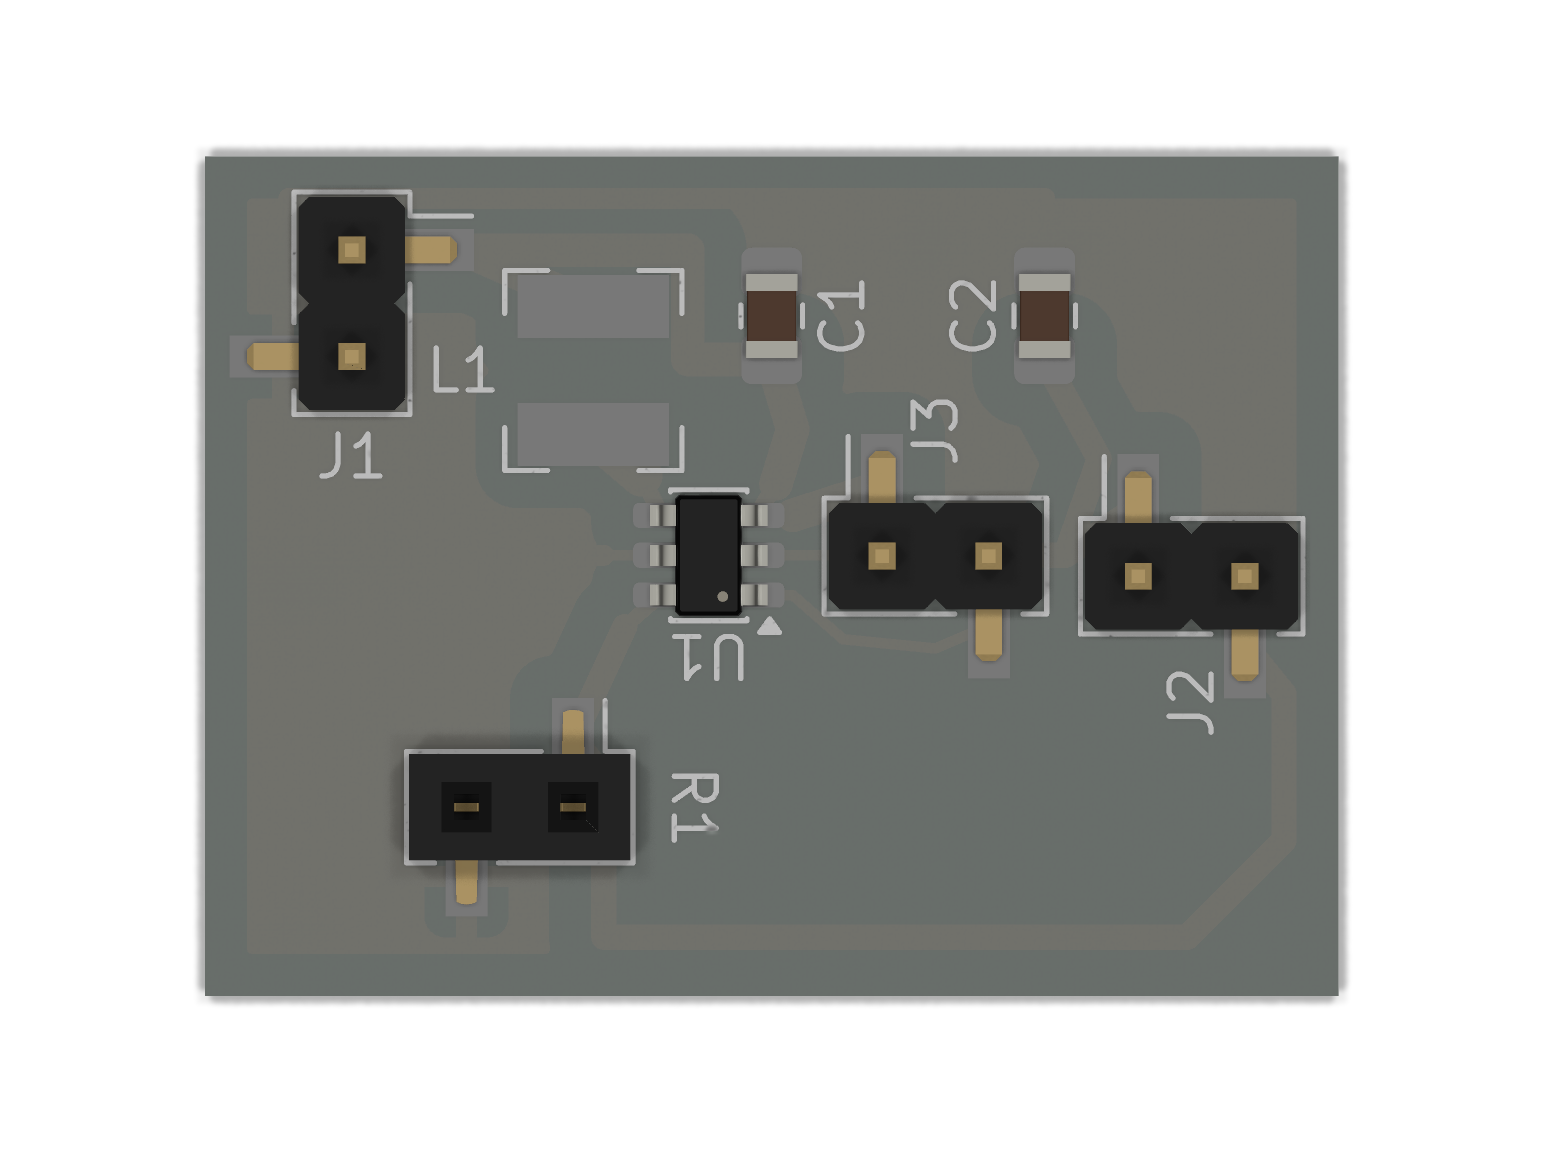
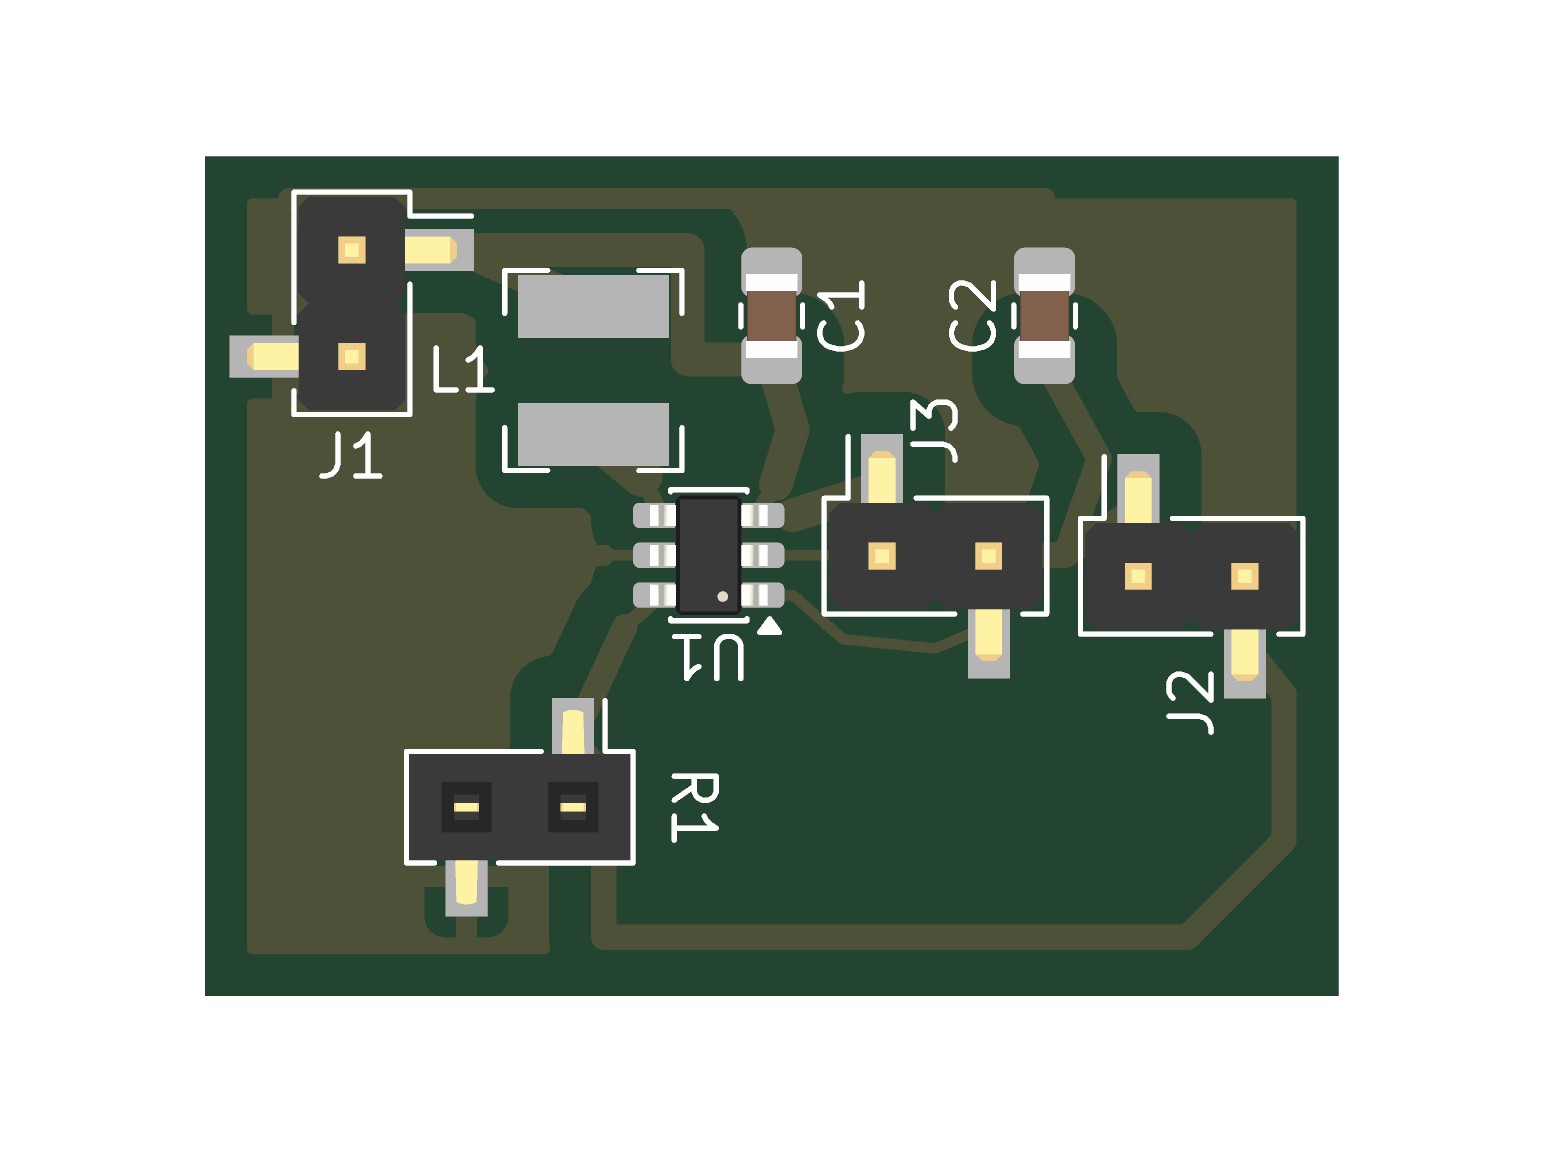
fix: clean up pcb preview rendering

diff --git a/.agents/skills/pcb-repository-governance/SKILL.md b/.agents/skills/pcb-repository-governance/SKILL.md
@@ -132,7 +132,9 @@ Model Git publication as a state transition, not as a single `push` command:
 4. Preserve the source branch as a recovery point. Switch to the integration branch and fast-forward it to the fetched destination before applying the source with `merge --squash`.
 5. Review the resulting staged name-status, whitespace check, statistics, complete diff, and relevant validation evidence as one publication batch. The earlier feature-branch review is useful evidence but does not replace checking the combined squash result.
 6. Create one conventional commit on the integration branch and use a normal fast-forward push. Never substitute a force push for resolving unexpected divergence.
-7. Verify publication by fetching or reading the remote-tracking ref and comparing its commit ID with the intended local integration commit. Report the concrete commit, remote URL, branch, and whether any recovery branch remains.
+7. Verify publication by fetching or reading the remote-tracking ref and comparing its commit ID with the intended local integration commit.
+8. After verified publication to the integration branch, delete the local source branch when it has no unpublished work beyond the published batch and is not attached to a worktree. This cleanup is the default even after a squash merge; retain the branch only when the user explicitly requests it or it still contains unique unpublished work. Never delete another task's branch merely because it is already merged.
+9. Report the concrete commit, remote URL, destination branch, and completed source-branch cleanup or the specific reason a branch remains.
 
 An explicit user request to `push`, publish, or update the remote authorizes a normal push of the audited current repository state to its configured upstream remote and named or tracked branch. Inspect and report the concrete URL and destination, but do not demand separate proof of remote-account ownership or repeat the confirmation merely because the remote uses GitHub, SSH, or another external host. Ask again only when publication intent was not explicit, the configured destination is missing or genuinely ambiguous, the requested branch differs from the tracked destination, or the operation would require a force push or history rewrite. Stop before pushing if secrets, credentials, private keys, personal absolute paths, unrelated files, stale generated artifacts, unlicensed private material, or unreviewed history enter the batch.
 

diff --git a/.agents/skills/kicad-pcb-layout/SKILL.md b/.agents/skills/kicad-pcb-layout/SKILL.md
@@ -44,7 +44,7 @@ After every change, refill the zones and inspect the actual filled geometry at r
 - Before full rerouting, close the editor, remove old routing, prove zero stale segments/vias/zones as applicable, and generate fresh router input.
 - After routing, count layers, vias, jumpers, and unrouted items. Refill zones and run DRC.
 - Inspect 2D, 3D, silkscreen, solder mask, copper-to-edge clearance, connector accessibility, and realistic assembly scale.
-- Generate committed 3D PCB previews with the repository profile's `visual_assets` settings. The default is an orthogonal, basic-quality PNG with a transparent background and no floor so decorative post-processing cannot obscure copper, silkscreen, or component geometry with hard shadows. If the basic renderer draws filled copper above 3D bodies, use the profile's restrained camera-light high-quality fallback; keep the floor disabled and verify that shadows do not cross important copper or silkscreen. Use perspective or a floor only when the design explicitly needs a presentation render, and keep that render distinct from the engineering preview.
+- Generate committed 3D PCB previews with the repository profile's `visual_assets` settings. The default is a strict top, orthogonal, basic-quality PNG with a transparent background and no floor so decorative post-processing cannot obscure copper, silkscreen, or component geometry with hard shadows. If the basic renderer draws filled copper above 3D bodies, use the profile's deterministic same-camera composite: extract only the component pixels from matching basic renders with and without models, then place them over a basic model-hidden render of the actually refilled board. Do not use perspective or a floor for engineering previews; keep any explicitly requested presentation render separate.
 
 Record measured results and waivers in the design's `VALIDATION.md`; keep reusable policy here.
 
